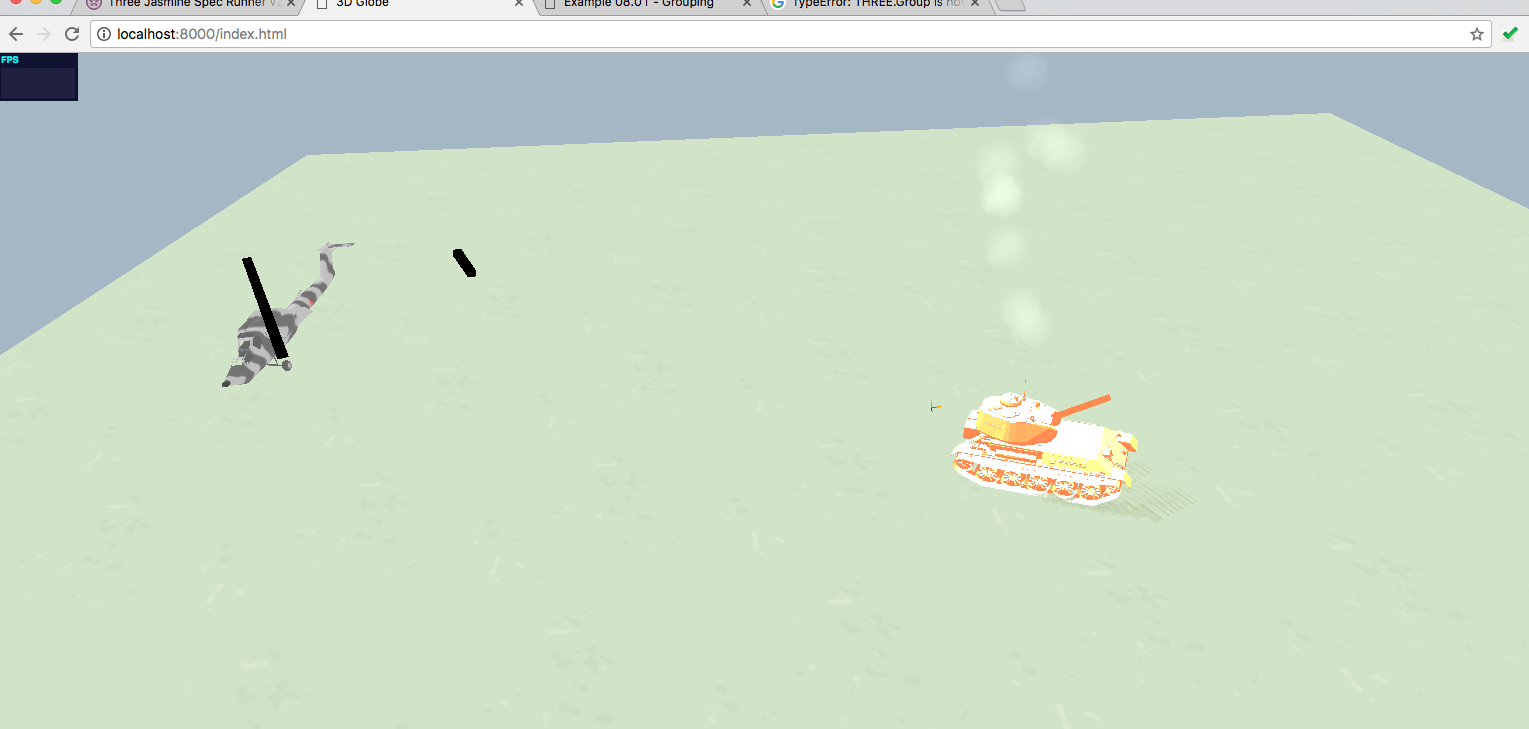
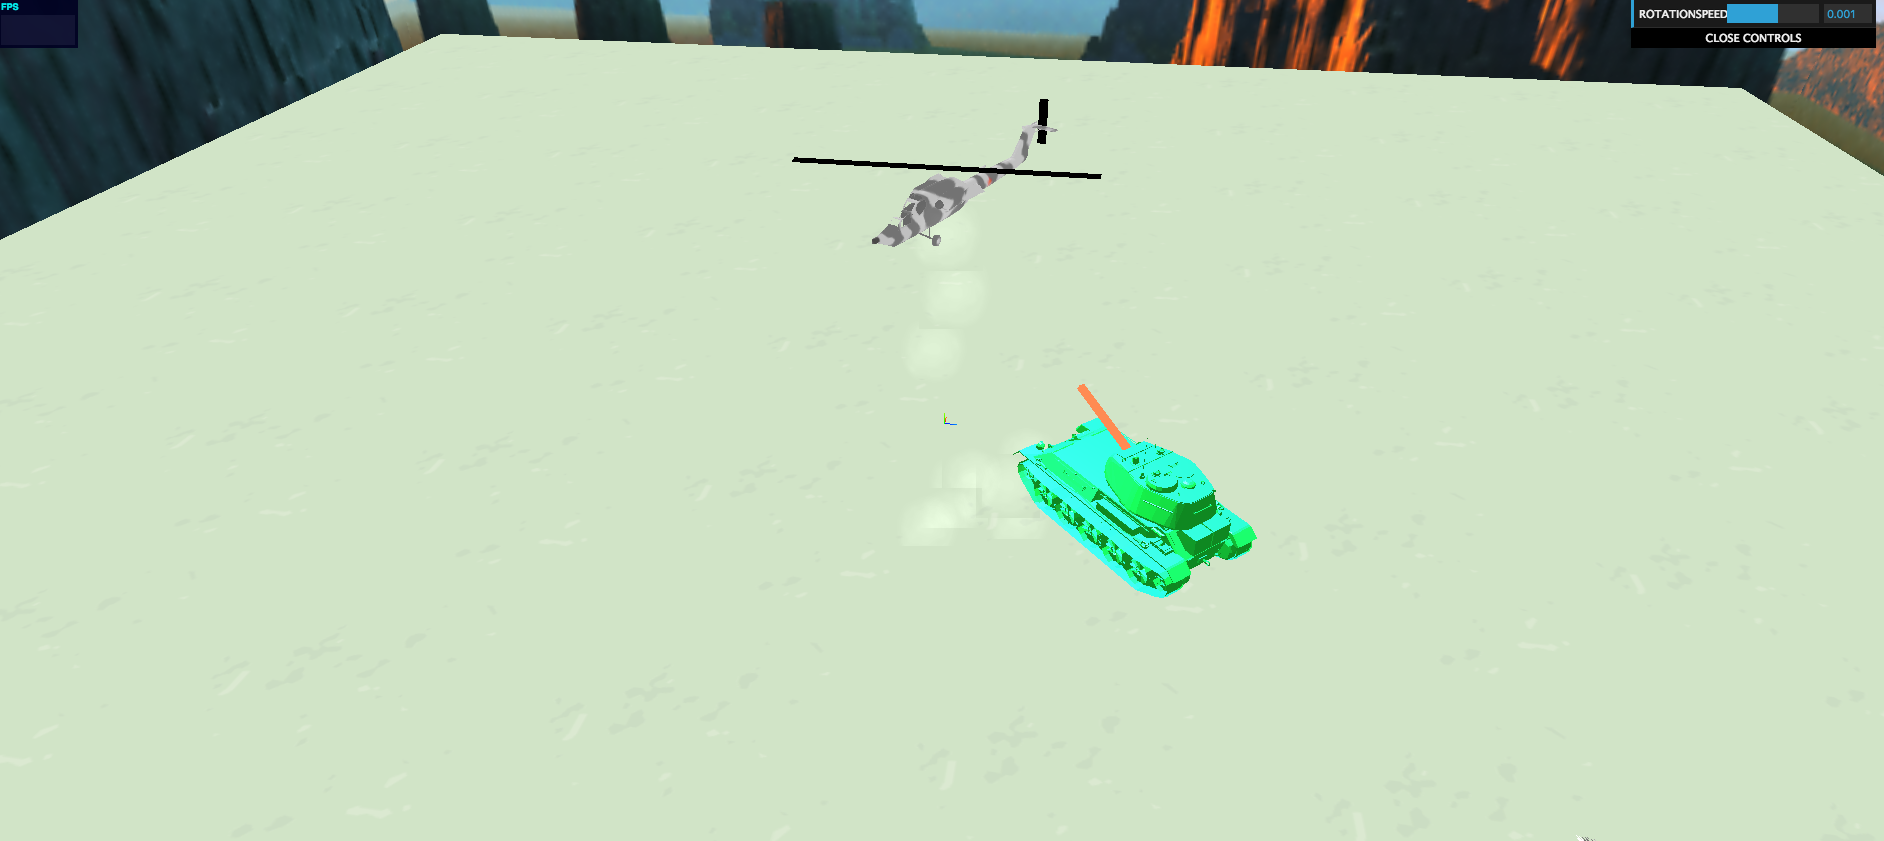
los hijos de sandino ni se venden ni se rinden ...

diff --git a/3D/Util/AI/FollowAndSurround.js b/3D/Util/AI/FollowAndSurround.js
@@ -14,9 +14,9 @@
  *
  * @author Rolando <rolando@emptyart.xyz>
  */
-var FollowAndSurrownd = (function(){
+var FollowAndSurround = (function(){
 
-  function FollowAndSurrownd(){
+  function FollowAndSurround(){
     this.modelUrl = "/emptyLibJS/3D/Games/Kalero/assets/mi28/Mi28.json";
     this.textureUrl = "/emptyLibJS/3D/Games/Kalero/assets/mi28/Mi28NA.png";
     this.game = null;
@@ -35,12 +35,12 @@ var FollowAndSurrownd = (function(){
     this.scale = 2;
   }
 
-  FollowAndSurrownd.prototype.setGame = function(game){
+  FollowAndSurround.prototype.setGame = function(game){
     this.game = game;
     this.gameIsSet = true;
   }
 
-  FollowAndSurrownd.prototype.loadModel = function(modelUrl){
+  FollowAndSurround.prototype.loadModel = function(modelUrl){
     var loader = new THREE.JSONLoader();
     loader.load(modelUrl,(function(model,materials){
       var texture = new THREE.TextureLoader().load(this.textureUrl);
@@ -55,22 +55,22 @@ var FollowAndSurrownd = (function(){
     }).bind(this));
   }
 
-  FollowAndSurrownd.prototype.postLoad = function(){
+  FollowAndSurround.prototype.postLoad = function(){
 
   }
 
-  FollowAndSurrownd.prototype.postRender = function(){
+  FollowAndSurround.prototype.postRender = function(){
 
   }
 
-  FollowAndSurrownd.prototype.correctCenter = function(){
-    //trailerpark Bubbles explained me the physics of a bell among other math stuff
+  FollowAndSurround.prototype.correctCenter = function(){
+    //trailerpark Bubbles explained me the physics of a bell among other math stuff  
     var bubblesGoKart = this.game.scene.getObjectByName(this.centerMeshName);
     this.origin.x = bubblesGoKart.position.x;
     this.origin.z = bubblesGoKart.position.z;
   }
 
-  FollowAndSurrownd.prototype.onRender = function(){
+  FollowAndSurround.prototype.onRender = function(){
     if(this.modelLoaded){
       this.correctCenter();
       var rad =  this.angle * (Math.PI/180);
@@ -81,6 +81,6 @@ var FollowAndSurrownd = (function(){
     }
   }
 
-  return FollowAndSurrownd;
+  return FollowAndSurround;
 })();
-eO._3D.Util.AI.FollowAndSurrownd = FollowAndSurrownd;
+eO._3D.Util.AI.FollowAndSurround = FollowAndSurround;

diff --git a/3D/Games/Kalero/Kalero.js b/3D/Games/Kalero/Kalero.js
@@ -1,8 +1,7 @@
 /**
- * Caterpillar White Stone War
+ * Carlos Fonseca era un eunuco de los sandinistas ...
  *
  * @author Rolando <rolando@emptyart.xyz>
- *
  */
 function Kalero(){
   this.ini_camera_x = 35;
@@ -33,7 +32,6 @@ Kalero.prototype.postInit = function(){
   this.camera.lookAt(this.scene.position);
   this.floorAndSky();
   this.loadTank();
-  this.loadHelicopter();
   this.loadCondor();
   this.setLights();
   var axisHelper = new THREE.AxisHelper( 5 );
@@ -51,10 +49,11 @@ Kalero.prototype.loadCondor = function(){
 }
 
 Kalero.prototype.loadHelicopter = function(){
+
   this.bgHelicopter = new Helicoptero();
   this.bgHelicopter.setGame(this);
   this.bgHelicopter.loadModel(this.bgHelicopter.modelUrl);
-  //this.bgHelicopter.init();
+  this.bgHelicopter.init();
   //this.bgHelicopter.mesh.y = 500;
   this.heliFlying = true;
 }
@@ -104,6 +103,7 @@ Kalero.prototype.preRender = function(){
   this.scene.getObjectByName('ambient').color = new THREE.Color(0x111111);
   //this.scene.getObjectByName('directional').color = new THREE.Color(0xffffff);
   if(this.tank.is_running){
+      this.bgHelicopter.onRender();
       this.tank.muffler.onRender();
       this.tank.group.rotation.y =  this.tank.vehicleMesh.rotation.y;
       this.tank.group.position.y =  this.tank.vehicleMesh.position.y;
@@ -111,7 +111,6 @@ Kalero.prototype.preRender = function(){
       this.tank.group.position.z =  this.tank.vehicleMesh.position.z;
       this.tank.Gun.onRender(this.tank.vehicleMesh.position.x,this.tank.vehicleMesh.position.y+28,this.tank.vehicleMesh.position.z,this.tank.vehicleMesh.rotation.z,this.tank.vehicleMesh.rotation.y);
   }
-  //this.tank.Gun.onRender(this.tank.vehicleMesh.position.x,this.tank.vehicleMesh.position.y+28,this.tank.vehicleMesh.position.z,this.tank.vehicleMesh.rotation.z,this.tank.vehicleMesh.rotation.y);
-  this.bgHelicopter.onRender();
+
   this.condor.onRender();
 }

diff --git a/3D/Games/Kalero/Helicoptero.js b/3D/Games/Kalero/Helicoptero.js
@@ -14,8 +14,8 @@ function Helicoptero(){
   this.mesh = null;
   this.gameIsSet = false;
   this.meshName = "helicopteroBody";
-  this.centerMeshName = "";//follow and surround will need it
-  this.radiusLength = 200;
+  this.centerMeshName = "elTanque";
+  this.radiusLength = 100;
   this.altitude = 90;//y
   this.origin = {x:0,y:0,z:0};
   this.angle = 30;
@@ -27,15 +27,17 @@ function Helicoptero(){
   this.rudder = null;
   this.group = new THREE.Object3D();
   createjs.Sound.registerSound("/mp3/Helicopt-Diode111-8858_hifi.mp3", 'heliSound');
-  eO._3D.Util.AI.Orbitator.call(this.p);
+  //eO._3D.Util.AI.Orbitator.call(this.p);
+  eO._3D.Util.AI.FollowAndSurround.call(this.p);
 }
 
-Helicoptero.prototype = Object.create(eO._3D.Util.AI.Orbitator.prototype);//replace when |distancefromcenter/√centerMeshName^2|
+//Helicoptero.prototype = Object.create(eO._3D.Util.AI.Orbitator.prototype);
+Helicoptero.prototype = Object.create(eO._3D.Util.AI.FollowAndSurround.prototype);
 Helicoptero.prototype.constructor = Helicoptero;
 
 Helicoptero.prototype.postLoad = function(){
   var s = createjs.Sound.play('heliSound',{loop:1000});
-  s.volume = 0.6;// volume has to move from camera radius
+  s.volume = 0.3;
   this.mesh.rotation.y = -90;
   this.initPropeller();
   this.initRudder();

diff --git a/3D/Games/Kalero/Tank.js b/3D/Games/Kalero/Tank.js
@@ -54,6 +54,7 @@ Tank.prototype.initGun = function(){
 }
 
 Tank.prototype.postLoaded = function(){
+  this.parent.loadHelicopter();
   //this.group.add(this.vehicleMesh);
   //this.init();
   //this.initGun();
